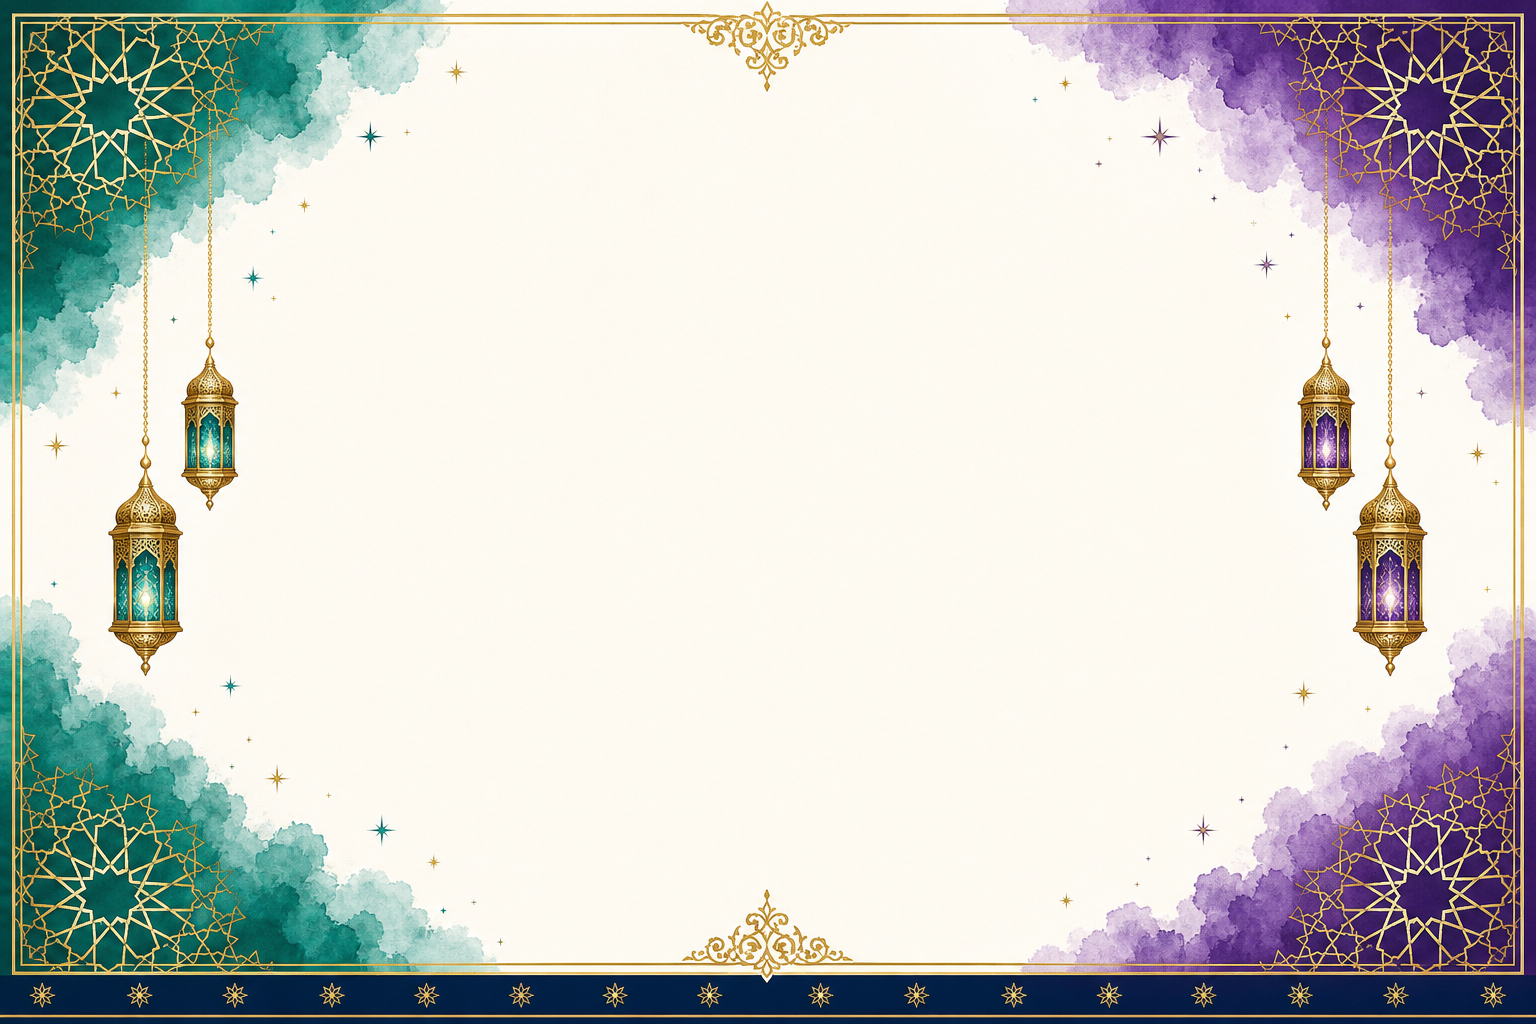
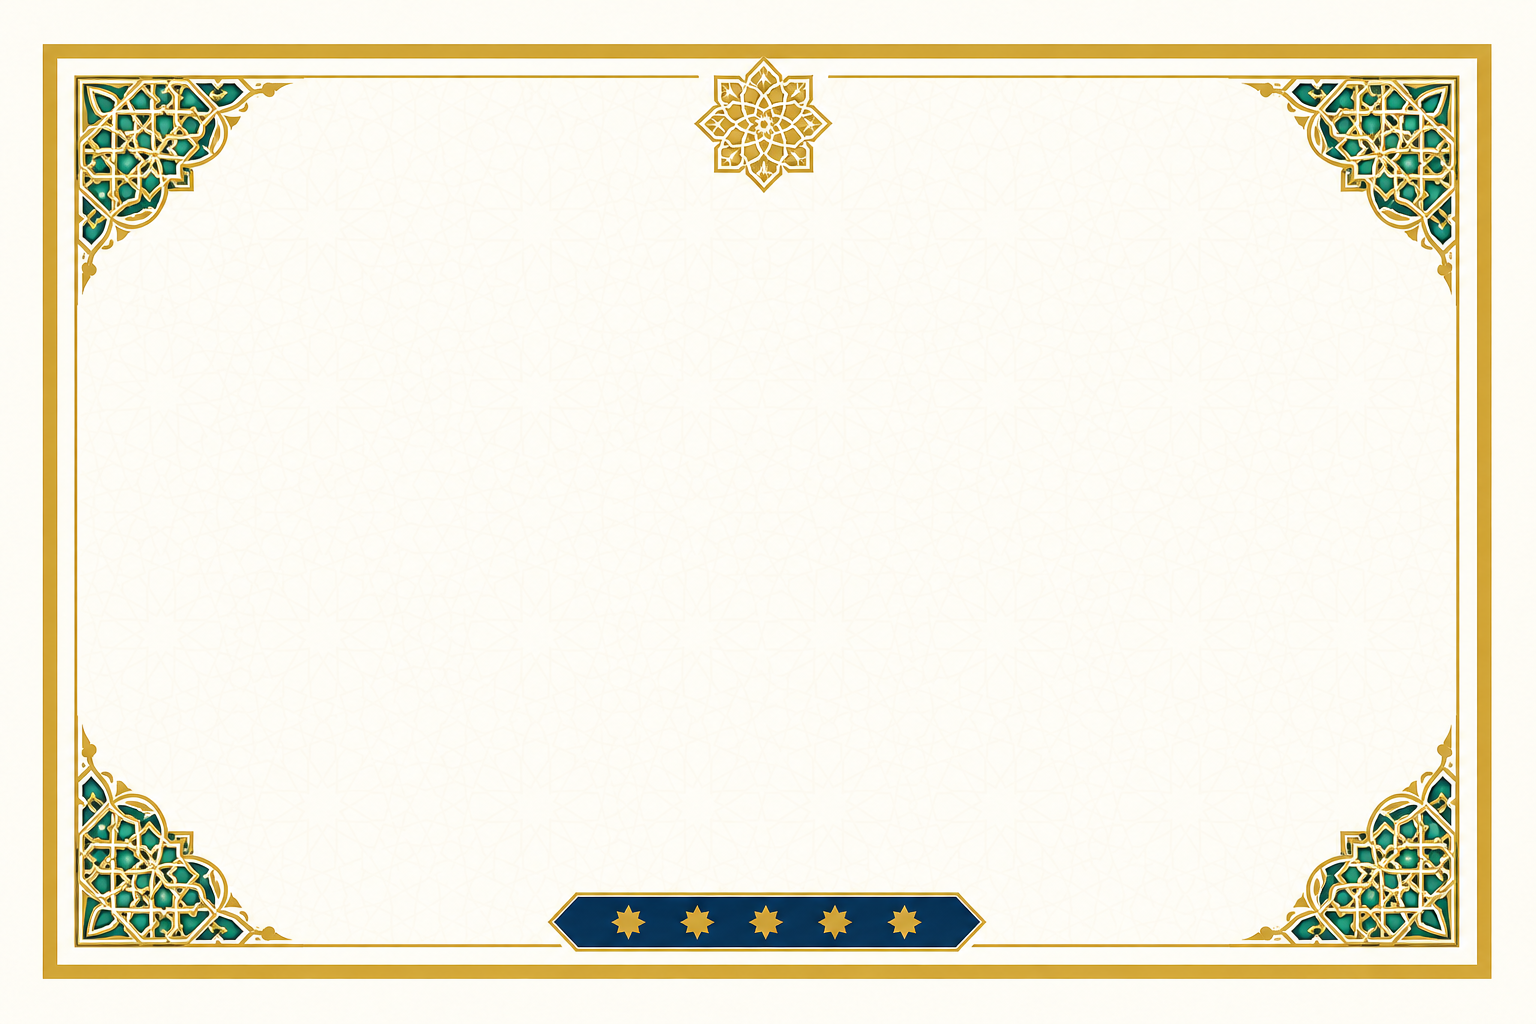
Changes

diff --git a/src/utils/generateCertificatePDF.ts b/src/utils/generateCertificatePDF.ts
@@ -25,6 +25,31 @@ const GOLD: [number, number, number] = [178, 132, 28];
 const BODY: [number, number, number] = [55, 58, 64];
 const MUTED: [number, number, number] = [110, 115, 125];
 
+const GREEN_STROKE: [number, number, number] = [31, 122, 77];
+const GREEN_VALUE: [number, number, number] = [15, 81, 50];
+const GOLD_STROKE: [number, number, number] = [178, 132, 28];
+const GOLD_VALUE: [number, number, number] = [122, 90, 15];
+const PURPLE_STROKE: [number, number, number] = [91, 42, 134];
+const PURPLE_VALUE: [number, number, number] = [61, 31, 102];
+
+type MetricVariant = "green" | "gold" | "purple";
+
+const romanMap: Record<string, string> = {
+  "1": "I", "2": "II", "3": "III", "4": "IV", "5": "V", "6": "VI",
+  "7": "VII", "8": "VIII", "9": "IX", "10": "X",
+};
+
+const formatClassName = (raw: string): string => {
+  const cleaned = safeText(raw, "").replace(/^kelas\s*/i, "").trim();
+  if (!cleaned) return "-";
+  const m = cleaned.match(/^(\d+)\s*([A-Za-z]*)$/);
+  if (m) {
+    const roman = romanMap[m[1]] ?? m[1];
+    return m[2] ? `${roman} ${m[2].toUpperCase()}` : roman;
+  }
+  return cleaned;
+};
+
 let certificateTemplatePromise: Promise<string> | null = null;
 
 const safeText = (value: unknown, fallback = "-") => {

diff --git a/.lovable/plan.md b/.lovable/plan.md
@@ -1,68 +1,56 @@
-# Rencana: Remake Sertifikat Tahfizh (Template + Layout PDF)
+# Rencana: Penyesuaian Sertifikat Tahfizh
 
-## Tujuan
-Mengganti total template sertifikat Tahfizh dengan versi baru yang bersih, tajam, presisi (bukan tambalan), pas untuk A4 Landscape (297×210 mm / rasio 1.414:1), serta menambah teks trilingual (Arab, Inggris, Indonesia) selayaknya sertifikat tahfizh internasional. Bingkai QR juga dirapikan agar ukurannya pas dengan QR.
+## 1. Format Nama Kelas → Angka Romawi
+Di `src/utils/generateCertificatePDF.ts`, tambahkan helper `formatClassName(raw: string)` yang:
+- Menghapus kata "Kelas" (case-insensitive) dari awal string.
+- Mendeteksi angka pertama (1–6) dan mengubahnya jadi Romawi (`I, II, III, IV, V, VI`).
+- Mempertahankan huruf rombel di belakang (A/B/C/D...), dipisah satu spasi.
+- Contoh: `"Kelas 6D"` → `"VI D"`, `"6A"` → `"VI A"`, `"Kelas 3"` → `"III"`.
 
-## Hasil Akhir
-- File `public/certificate-template-tahfizh.png` baru (1754×1240 px, rasio A4 landscape, render bersih).
-- `src/utils/generateCertificatePDF.ts` diperbarui: layout, tipografi trilingual, dan frame QR yang presisi.
-- Dukungan font Arab (`Amiri`) dipakai di PDF (memanfaatkan `src/utils/loadArabicFont.ts` yang sudah ada).
-- Tidak ada perubahan logika data / query (rekap sertifikat tetap).
+Dipakai saat render baris kelas:
+`Class / Kelas: ${formatClassName(data.className)}`.
 
-## Desain Template Baru (image)
-Gaya: Islamic luxury, hijau emerald + emas, ornamen geometris Islami presisi (bukan tambal sulam).
-Komposisi:
-- Bingkai ganda emas tipis di seluruh tepi, sudut ornamen arabesque simetris kiri-kanan-atas-bawah.
-- Header: rosette/medali emas di tengah atas + dua lentera tergantung simetris (kiri & kanan), lebih halus & tajam.
-- Watermark tipis kaligrafi/geometric pattern di tengah, opacity rendah agar teks tetap terbaca.
-- Footer band emerald gelap dengan ornamen bintang 8.
-- Area konten putih bersih di tengah, tanpa elemen kotak metrik yang sebelumnya kaku (metrik akan digambar via PDF, bukan ditanam di image).
-- Tidak ada logo/tulisan eksternal yang menempel di template (logo dibiarkan kosong supaya PDF yang menambah teks).
+## 2. Tiga Kartu Metrik Berwarna (Final Score · Grade · Date)
+Saat ini hanya 2 kartu (Final Score di x=78, Grade di x=219). Ubah jadi 3 kartu sejajar di tengah halaman A4 landscape (lebar 297 mm):
 
-Render via `imagegen--generate_image` quality `premium` (penting untuk ornamen halus), 1792×1280, kemudian crop/resize ke 1754×1240 jika perlu. QA dengan zoom_image.
+```text
+[ Final Score ]      [ Grade / Predikat ]      [ Date / Tanggal ]
+   x ≈ 70mm                x ≈ 148.5mm                x ≈ 227mm
+```
 
-## Layout PDF (A4 Landscape 297×210 mm)
-Header trilingual (atas, center):
-- Arab: «شَهَادَةُ تَحْفِيظِ الْقُرْآنِ الْكَرِيمِ» (font Amiri, ±20pt, navy)
-- English: "CERTIFICATE OF QUR'AN MEMORIZATION" (Helvetica bold small caps, ±13pt, gold)
-- Indonesia: "Sertifikat Tahfizh Al-Qur'an" (Helvetica bold italic, ±12pt, navy)
-- Nomor sertifikat di bawah header (gold, ±9pt)
+- Lebar kartu tetap 58 mm, tinggi 26 mm, posisi Y tetap (122 mm).
+- `drawMetricCard` diperluas menerima parameter `variant: "green" | "gold" | "purple"` yang menentukan:
+  - Warna stroke bingkai
+  - Warna pita header tipis (opsional fill 0.4 mm di atas kartu)
+  - Warna teks nilai utama
 
-Body:
-- Label trilingual "This is to certify that / Diberikan kepada / يُشْهَدُ بِأَنَّ" (italic, kecil)
-- Nama siswa: navy, bold, besar (auto-fit hingga 27pt)
-- Kelas + sekolah (1 baris)
-- Pernyataan trilingual ringkas:
-  - EN: "has successfully completed the Tahfizh examination for Juz {X} with the following result:"
-  - ID: "telah menyelesaikan ujian Tahfizh Al-Qur'an Juz {X} dengan hasil sebagai berikut:"
-  - AR: «قَدْ أَتَمَّ اخْتِبَارَ تَحْفِيظِ الْجُزْءِ {X} بِالنَّتِيجَةِ الْآتِيَةِ»
+Palette (selaras tema Islami emerald-emas yang sudah ada):
+- **Green (Final Score)**: stroke `#1F7A4D` (hijau emerald), value `#0F5132`.
+- **Gold (Grade)**: stroke `#B2841C` (gold, tetap), value `#7A5A0F`.
+- **Purple (Date)**: stroke `#5B2A86` (royal purple), value `#3D1F66`.
 
-Metrik (2 kolom di kiri-tengah & kanan-tengah, digambar via PDF, bukan template):
-- Nilai Akhir / Final Score: angka besar gold
-- Predikat / Grade: teks gold
+Label tetap dua baris: EN uppercase kecil di atas, ID italic di bawah. Untuk kartu Date, nilai memakai `safeDate(data.tanggal)` (Indonesia) — caption EN `safeDateEN` ditiadakan dari footer agar tidak duplikasi (footer hanya menyisakan baris tanda tangan / dihapus baris "Issued on …").
 
-QR Code (kanan-bawah area metrik, terpusat):
-- Ukuran QR: 26×26 mm
-- Frame: kotak rounded emas (stroke 0.5 mm) berukuran 30×30 mm dengan padding 2 mm; QR di-center dalam frame
-- Caption trilingual kecil di bawah frame: "Scan to verify · Verifikasi · للتحقق"
+## 3. Ornamen Template: Bingkai Tegas (Bukan Awan Blur)
+Render ulang `public/certificate-template-tahfizh.png` (1792×1280, A4 landscape) memakai `imagegen--generate_image` quality **premium** dengan arahan:
 
-Footer (bawah):
-- Kiri: tanda tangan "Koordinator Tahfizh / Tahfizh Coordinator"
-- Kanan: tanda tangan "Kepala Sekolah / Principal"
-- Tengah-bawah: tanggal trilingual "Ditetapkan pada {tanggal} · Issued on {date}"
-- Garis tanda tangan emas tipis
+- **Hapus** semua wash cat air / awan blur di empat sudut.
+- **Ganti dengan bingkai berlapis yang tegas**:
+  - Outer border: garis emas tebal (≈8 px) mengelilingi seluruh tepi, jarak 40 px dari sisi.
+  - Inner border: garis emas tipis (≈2 px) 18 px di dalamnya — klasik double frame.
+  - Empat sudut: ornamen arabesque/geometris Islami simetris di dalam bingkai (bukan watercolor), garis emas tajam dengan isian tipis warna emerald `#0d6e6a`.
+  - Tepi tengah atas: rosette emas kecil (tetap, seperti versi sekarang).
+  - Tepi tengah bawah: pita navy `#072346` ramping dengan 5 bintang segi-8 emas (tetap, dirapikan).
+  - Latar pusat ivory `#fbf8f1` polos — tidak ada watermark blur besar; boleh watermark geometric pattern sangat halus (opacity ≤ 6%) di tengah.
+- Palet sama persis dengan versi sebelumnya: teal/emerald `#0d6e6a`/`#2a9d8f`, royal purple `#5b2a86`, gold `#c9a84c`, navy `#072346`, ivory `#fbf8f1`.
+- Komposisi simetris penuh, garis presisi (seperti engraving sertifikat resmi), bukan brushstroke.
 
-## Implementasi (Build Mode)
-1. Generate image template baru (premium) → simpan ke `public/certificate-template-tahfizh.png` (overwrite). QA visual: pastikan tidak ada teks acak/garis tambal, ornamen simetris, tajam.
-2. Update `src/utils/generateCertificatePDF.ts`:
-   - Import & panggil `loadArabicFont` di `buildCertificatePDF`.
-   - Tambah helper `drawTrilingualBlock(doc, ar, en, id, y, opts)`.
-   - Ganti seluruh layout konten (header, body, metrik, QR frame, footer) sesuai spesifikasi di atas.
-   - Sesuaikan posisi QR + frame (rounded rect via `doc.roundedRect`) presisi dengan ukuran QR.
-3. Tidak menyentuh `RekapSertifikat.tsx`, dialog, atau query — preview & download tetap menggunakan `buildCertificatePDF`.
-4. QA: render satu preview lewat dialog, screenshot, verifikasi semua teks tidak overflow, frame QR pas, font Arab tampil benar.
+QA: zoom_image ke 4 sudut + tengah atas/bawah untuk memastikan garis tajam, ornamen sudut simetris, tidak ada residu awan/blur.
 
-## Catatan Teknis
-- `jsPDF` mendukung Arab via Amiri (sudah tersedia di `public/fonts/Amiri-Regular.ttf`). Teks Arab perlu dirender dengan `doc.setFont("Amiri","normal")` dan `align: "center"`. Shaping dasar didukung; gunakan kalimat pendek.
-- Semua koordinat dalam mm; gunakan konstanta agar mudah disesuaikan.
-- Tidak mengubah signature `CertificateData` agar pemanggil tidak perlu diubah.
+## 4. Yang Tidak Diubah
+- Layout header trilingual, body trilingual, QR frame, dan tanda tangan tetap seperti sekarang (hanya baris "Issued on …" dipindah ke kartu Date — lihat poin 2).
+- Tidak ada perubahan pada `RekapSertifikat.tsx`, dialog preview, atau query data.
+
+## File Terdampak
+- `src/utils/generateCertificatePDF.ts` — helper Romawi, 3 kartu metrik berwarna, hapus baris tanggal footer.
+- `public/certificate-template-tahfizh.png` — render ulang dengan bingkai tegas.
